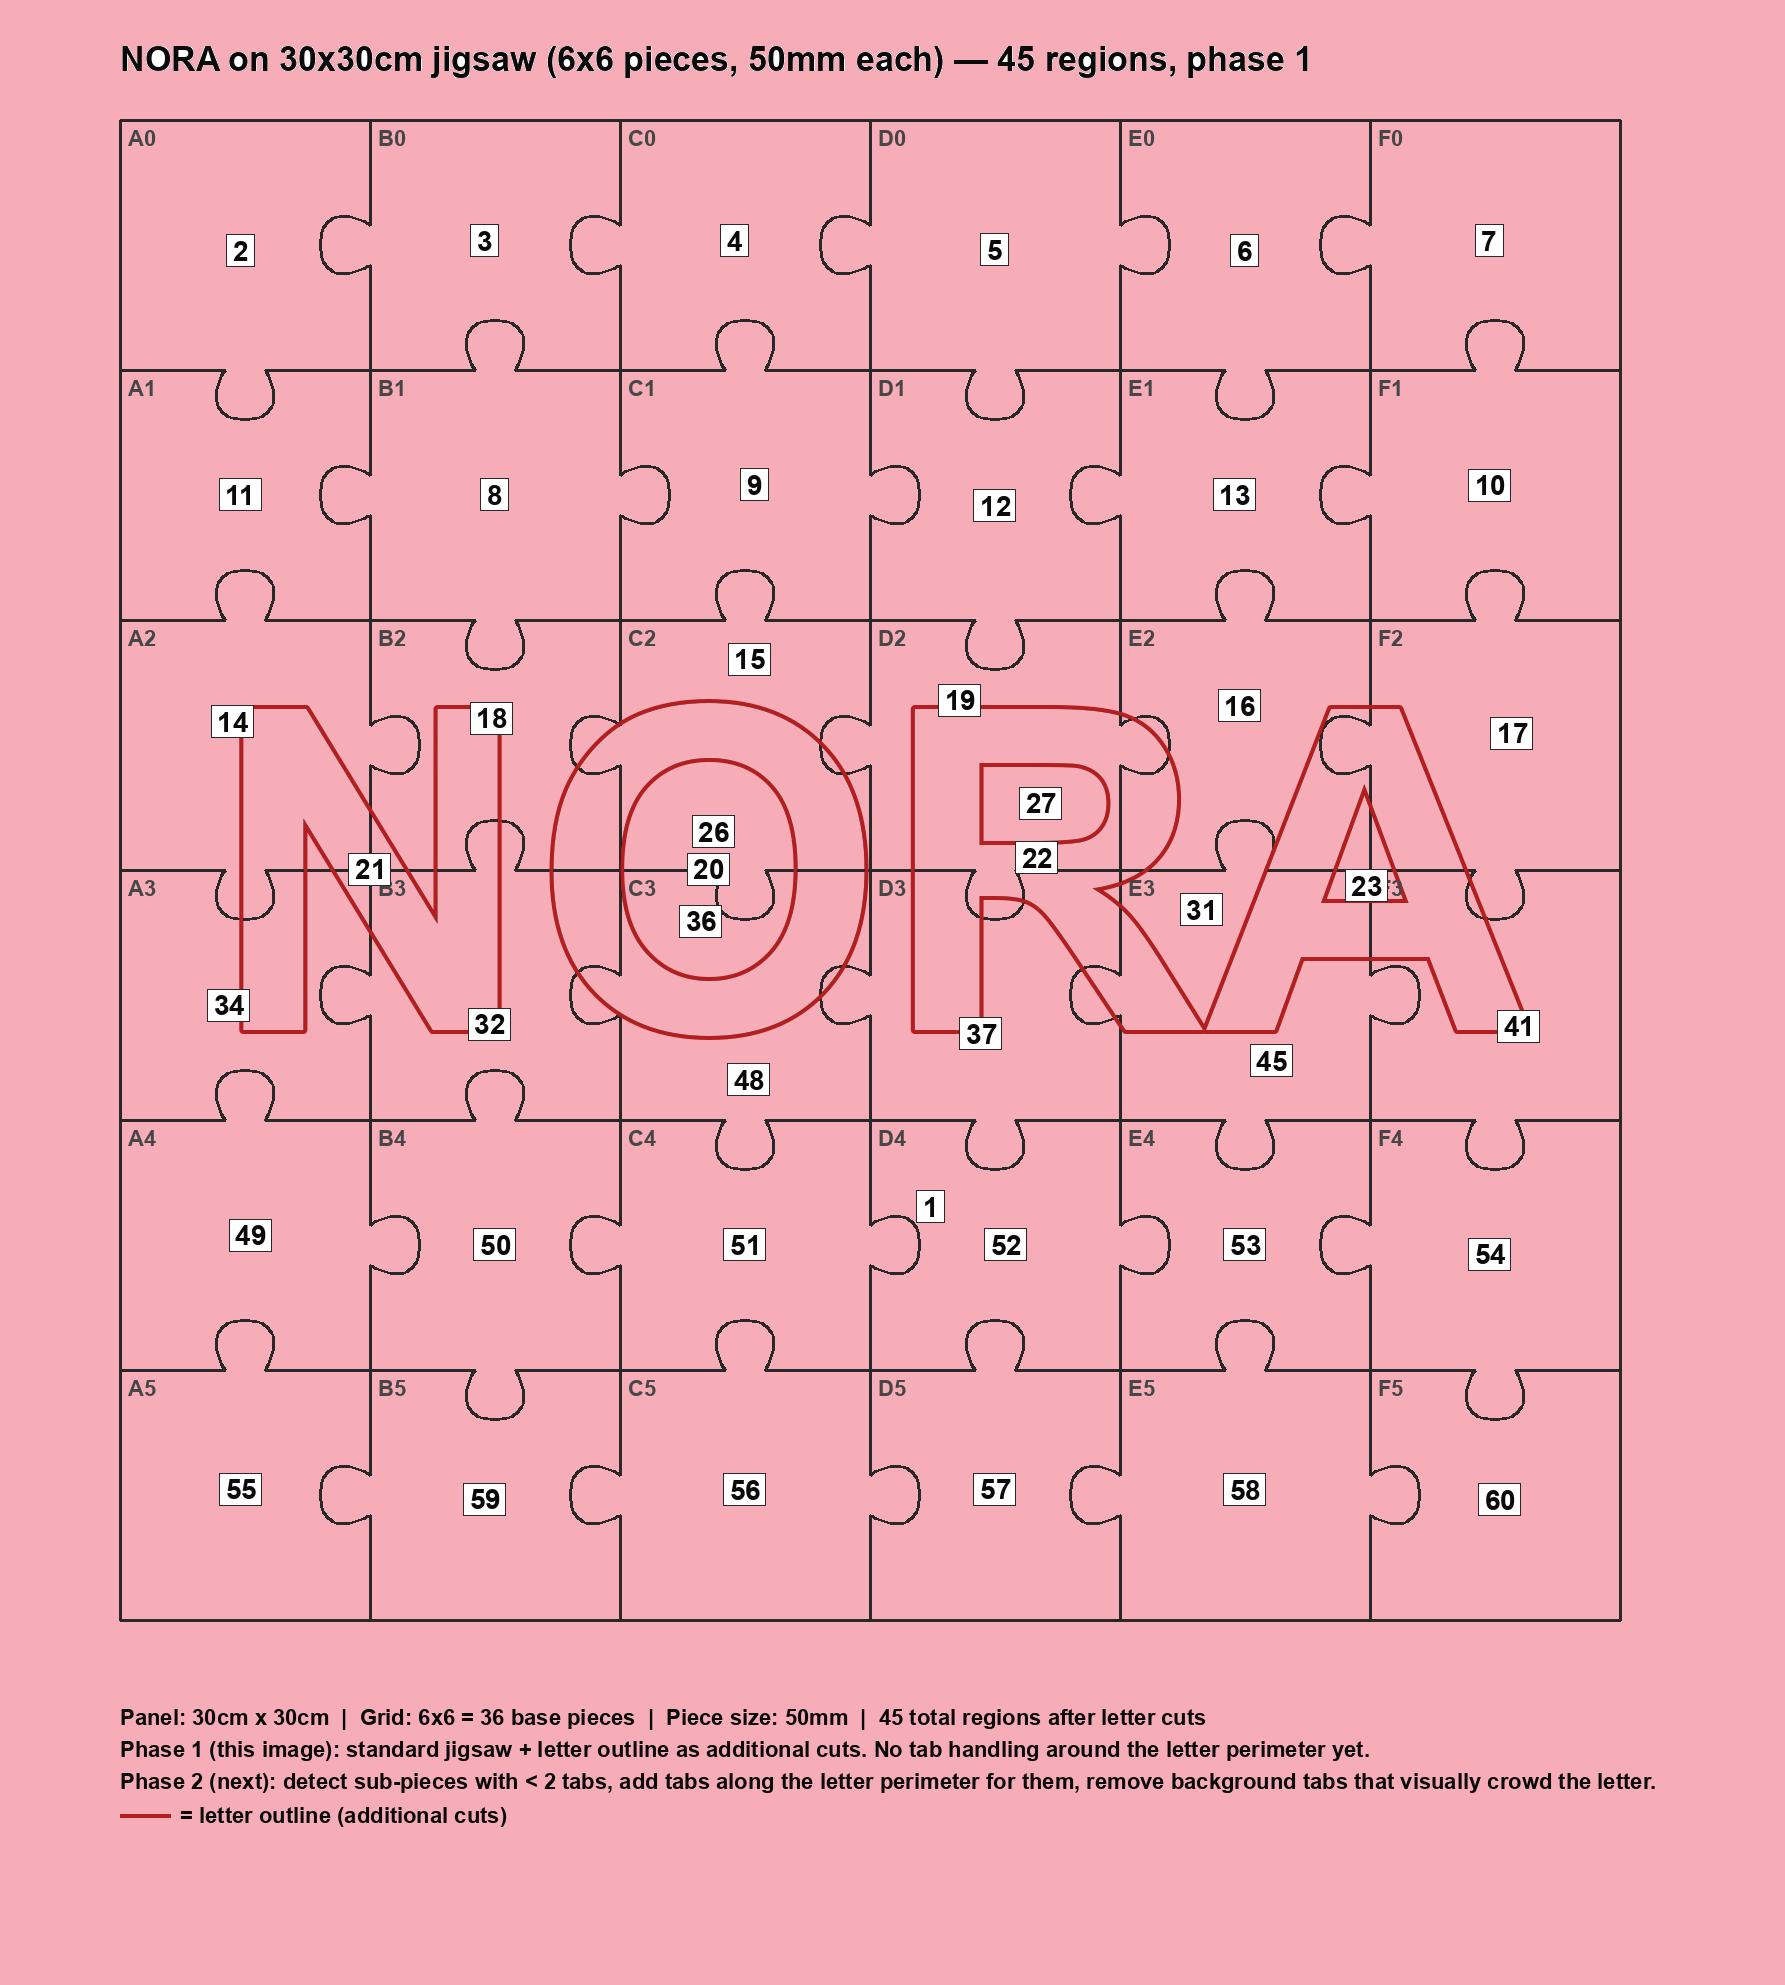
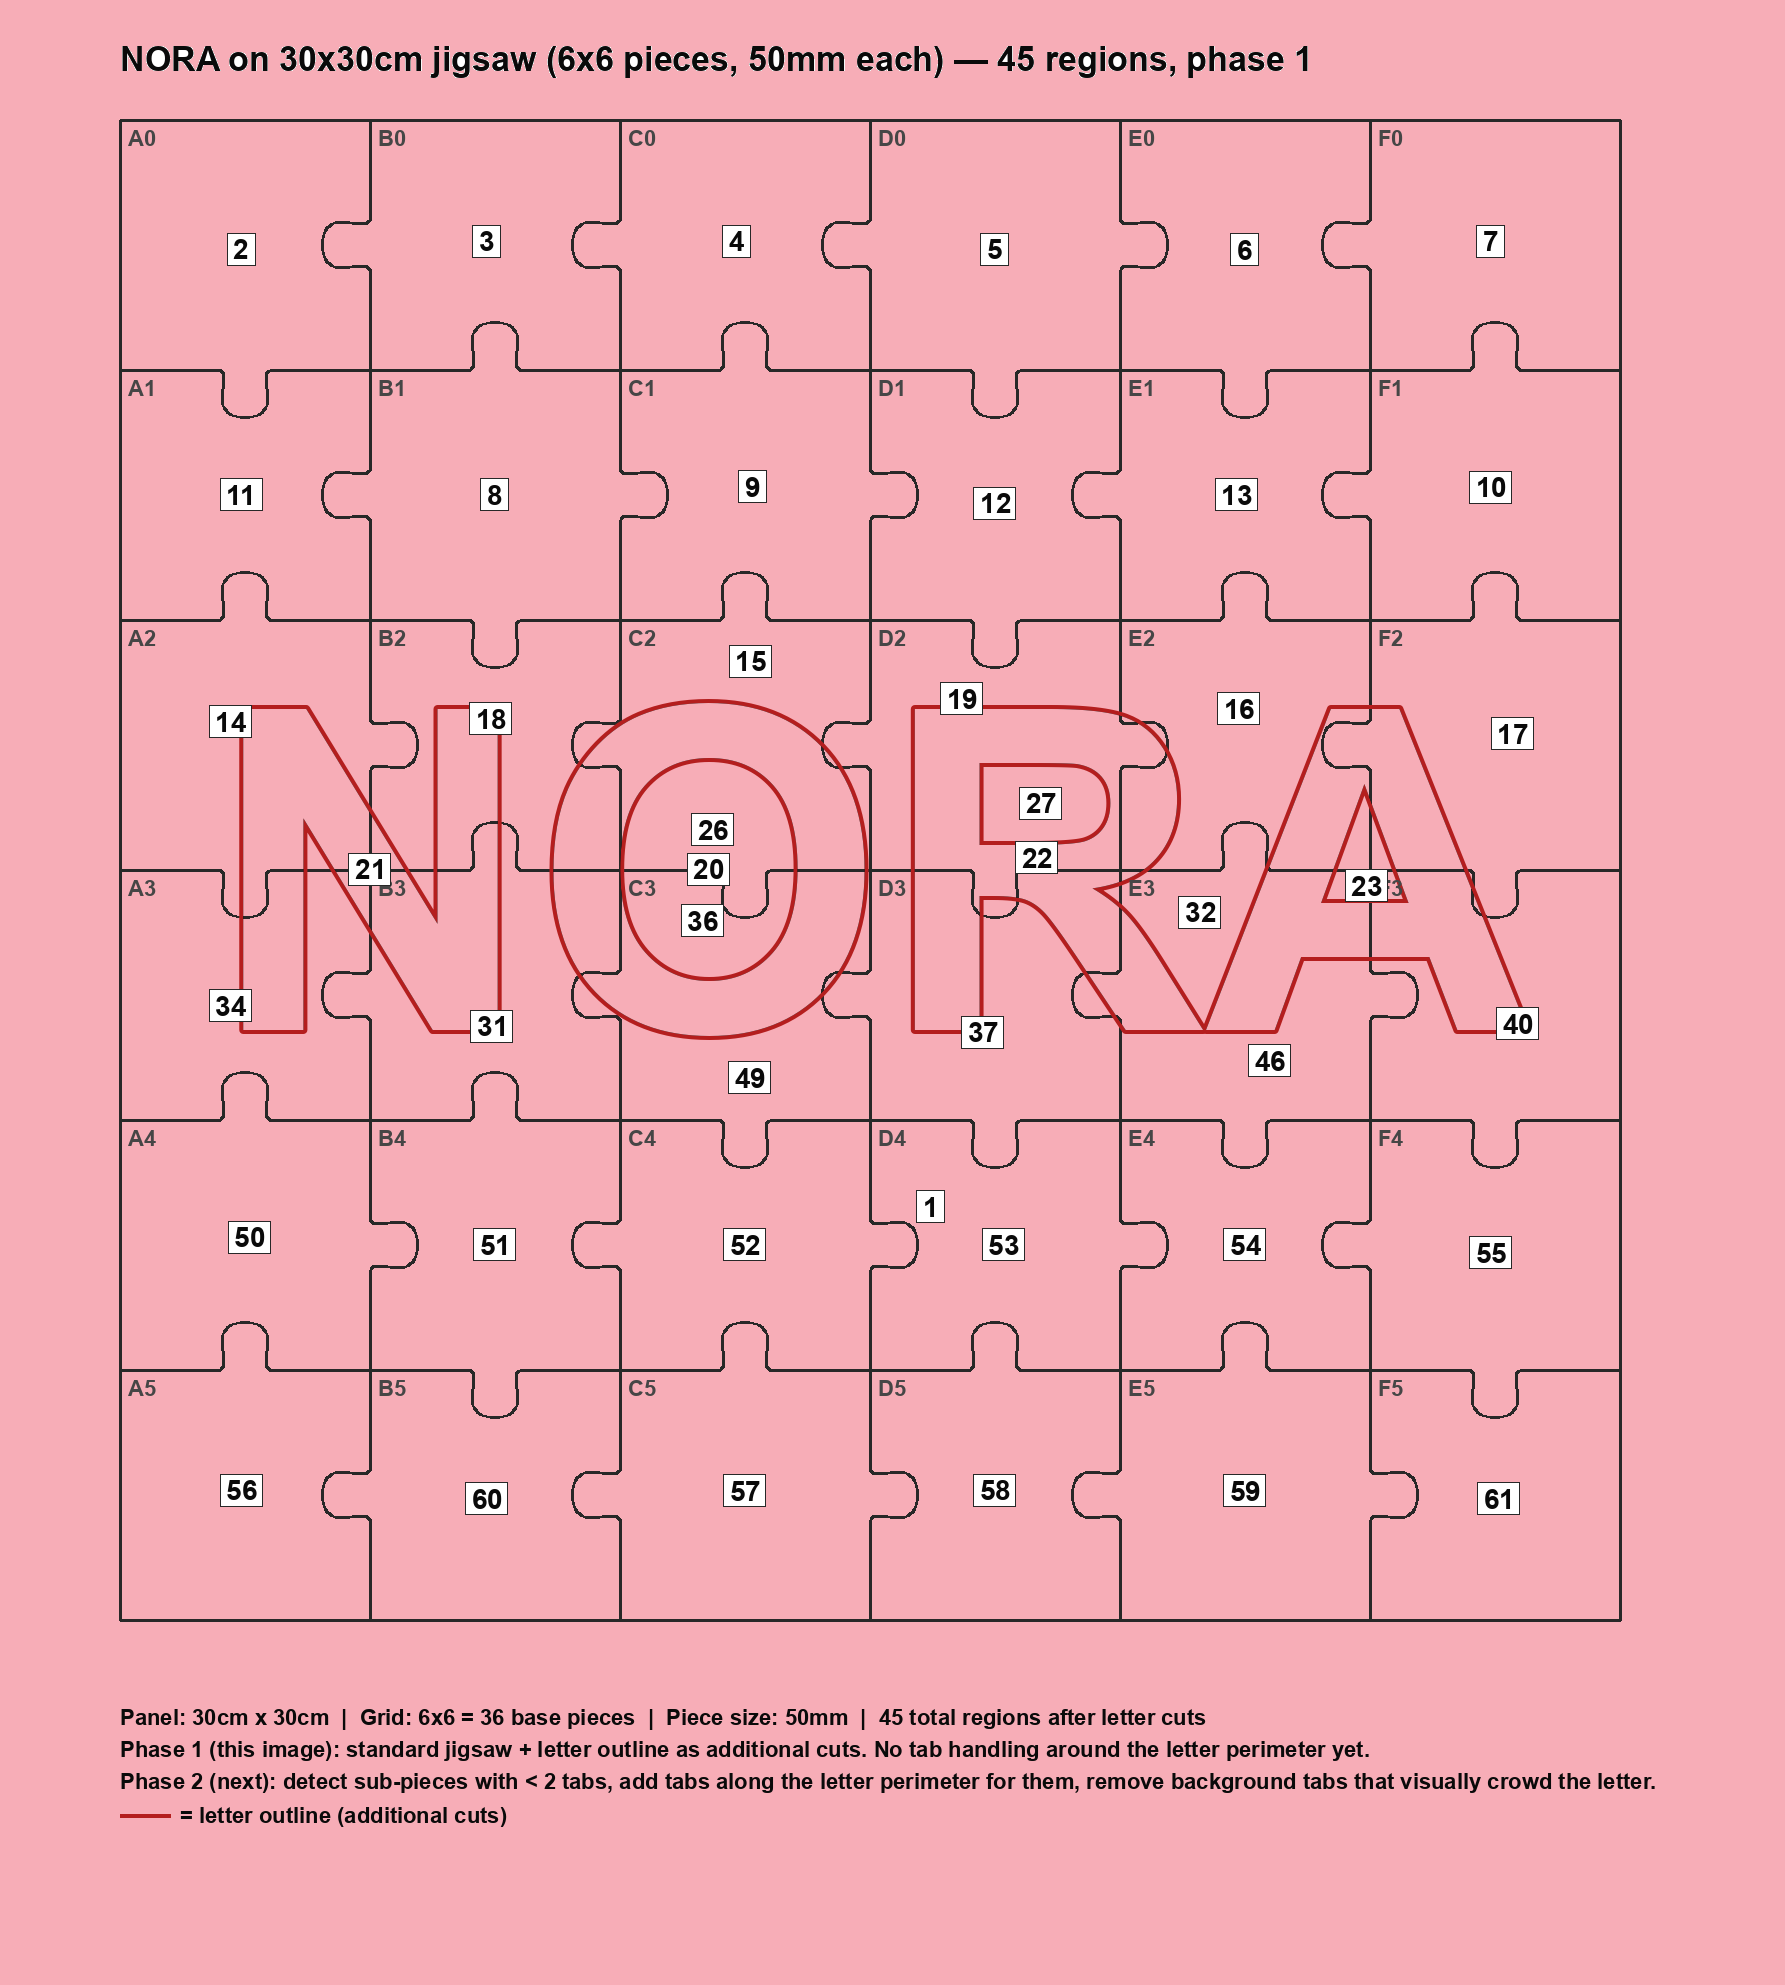
Jigsaw 3c: rounder tabs + --word CLI arg for any short word
Per user feedback: tab transitions where the cut leaves and rejoins the
edge were a ~105 deg direction change, too sharp for plywood + toddler
durability — the wood would crack at those fine points.

tab_outline updated:
  - Initial bezier tangent at the edge meeting point now ~45 deg upward
    instead of ~105 deg up-and-left. Bezier control points moved from
    (0.16, 0.50d) / (0.84, 0.50d) to (0.38, 0.15d) / (0.62, 0.15d).
  - Bulb still wider than base (locking) but less pronounced neck.
  - Two beziers still join smoothly (G1 continuous) at the top of the
    bulb.
  - Comment block in the function spells out the durability rationale.

main():
  - Argparse added with --word and --seed. Default word is NORA, default
    seed is 7. Output filename derived from word so multiple words can
    coexist in figs/ (e.g. nora_phase1_standard_jigsaw.png,
    emma_phase1_standard_jigsaw.png).
  - global tab-direction dicts rebuilt with the chosen seed.

Also removed a duplicate pts.append/return pair the formatter left
after my last edit.

diff --git a/cnc_vibes/lessons/laser/03_jigsaw/scratch/diagram_nora_phase1.py b/cnc_vibes/lessons/laser/03_jigsaw/scratch/diagram_nora_phase1.py
@@ -43,7 +43,7 @@ CUT_WIDTH = 3
 LETTER_OUTLINE_WIDTH = 4
 
 # ---- text ----
-TEXT = "NORA"
+TEXT = "NORA"  # default; overridable via --word CLI arg
 
 # ---- colors ----
 BG = (255, 255, 255)
@@ -77,12 +77,24 @@ def bezier_pt(p0, p1, p2, p3, t):
 
 
 def tab_outline(direction: int, n: int = 24) -> list[tuple[float, float]]:
-    pts: list[tuple[float, float]] = [(0.0, 0.0), (0.30, 0.0)]
+    """Rounded jigsaw tab.
+
+    Designed for toddler durability in plywood:
+      - Initial tangent at the edge transition is ~45° upward instead of
+        ~105° (the old sharper version). Reduces stress concentration at
+        the cut's entry/exit points where wood is most prone to crack.
+      - Bezier control points still create a wider-than-base bulb so the
+        tab has some locking, just gentler than a classic neck-bulb.
+      - Two Beziers joined at the top with continuous (G1) tangent.
+    """
+    pts: list[tuple[float, float]] = [(0.0, 0.0), (0.25, 0.0)]
     d = direction
-    p0, p1, p2, p3 = (0.30, 0.0), (0.16, 0.50 * d), (0.16, 1.10 * d), (0.50, 1.10 * d)
+    # B1: edge to top of bulb. Initial tangent ~45° upward-rightward.
+    p0, p1, p2, p3 = (0.25, 0.0), (0.38, 0.15 * d), (0.10, 1.05 * d), (0.50, 1.05 * d)
     for i in range(1, n + 1):
         pts.append(bezier_pt(p0, p1, p2, p3, i / n))
-    p0, p1, p2, p3 = (0.50, 1.10 * d), (0.84, 1.10 * d), (0.84, 0.50 * d), (0.70, 0.0)
+    # B2: top of bulb to edge. Mirror of B1.
+    p0, p1, p2, p3 = (0.50, 1.05 * d), (0.90, 1.05 * d), (0.62, 0.15 * d), (0.75, 0.0)
     for i in range(1, n + 1):
         pts.append(bezier_pt(p0, p1, p2, p3, i / n))
     pts.append((1.0, 0.0))
@@ -248,6 +260,32 @@ def find_open_seed(mask, cx, cy, radius=80):
 
 
 def main():
+    import argparse
+
+    p = argparse.ArgumentParser(description=__doc__.splitlines()[0])
+    p.add_argument(
+        "--word", default=TEXT, help=f"word to render on the puzzle (default: {TEXT})"
+    )
+    p.add_argument(
+        "--seed",
+        type=int,
+        default=SEED,
+        help=f"random seed for tab directions (default: {SEED})",
+    )
+    args = p.parse_args()
+    word = args.word.upper()
+    random.seed(args.seed)
+    # Rebuild tab-direction dicts with the (possibly new) seed
+    global vertical_tabs, horizontal_tabs
+    vertical_tabs = {
+        (c, r): random.random() > 0.5 for c in range(COLS - 1) for r in range(ROWS)
+    }
+    horizontal_tabs = {
+        (c, r): random.random() > 0.5 for c in range(COLS) for r in range(ROWS - 1)
+    }
+
+    out_path = OUT_DIR / f"{word.lower()}_phase1_standard_jigsaw.png"
+
     puzzle_w = COLS * CELL_W
     puzzle_h = ROWS * CELL_H
     img_w = puzzle_w + 2 * MARGIN + TAB_HEIGHT
@@ -283,7 +321,7 @@ def main():
     # Render NORA to find its bounding box, then center it
     tmp = Image.new("L", (img_w, img_h), 0)
     td = ImageDraw.Draw(tmp)
-    bbox = td.textbbox((0, 0), TEXT, font=font)
+    bbox = td.textbbox((0, 0), word, font=font)
     tw = bbox[2] - bbox[0]
     th = bbox[3] - bbox[1]
 
@@ -293,7 +331,7 @@ def main():
         scale = max_text_w / tw
         font_size = int(font_size * scale)
         font = find_font(font_size)
-        bbox = ImageDraw.Draw(tmp).textbbox((0, 0), TEXT, font=font)
+        bbox = ImageDraw.Draw(tmp).textbbox((0, 0), word, font=font)
         tw = bbox[2] - bbox[0]
         th = bbox[3] - bbox[1]
 
@@ -303,7 +341,7 @@ def main():
     # Draw the letter outline as additional cuts
     cm_draw.text(
         (text_x, text_y),
-        TEXT,
+        word,
         fill=0,
         font=font,
         stroke_width=LETTER_OUTLINE_WIDTH,
@@ -344,7 +382,7 @@ def main():
     ll_draw = ImageDraw.Draw(letter_layer)
     ll_draw.text(
         (text_x, text_y),
-        TEXT,
+        word,
         fill=(0, 0, 0, 0),
         font=font,
         stroke_width=LETTER_OUTLINE_WIDTH,
@@ -426,8 +464,8 @@ def main():
         font=lf,
     )
 
-    img.save(OUT_PATH, "PNG", optimize=True)
-    print(f"-> wrote {OUT_PATH}  ({img_w}x{img_h})  {len(regions)} regions")
+    img.save(out_path, "PNG", optimize=True)
+    print(f"-> wrote {out_path}  ({img_w}x{img_h})  {len(regions)} regions")
 
 
 if __name__ == "__main__":